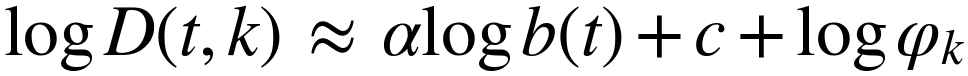
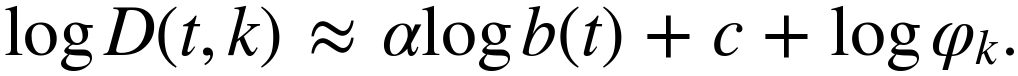
The supplement reads the head the paper reports
Section F called results/router_RECIPE512_b01.json "the frozen-decoder
head" while the paper reports the head fitted to the pinned weights, so
the frozen-vs-joint comparison had a different head on one side than the
main result does. Four call sites, the provenance table and two notes now
name the _e4head files, with the older ones as a fallback so a build
before the refit still renders.

Changed region(s): [[0.0, 0.0789, 1.0, 0.9474], [0.0, 0.0789, 0.031, 0.1053]]

diff --git a/paper/supp/f_router.tex b/paper/supp/f_router.tex
@@ -81,7 +81,7 @@ The extra \RouterTimeExtra points are launch overhead. A head of 144,024 paramet
 
 \textbf{Two heads, two shares.} The pinned checkpoint carries a head that was trained jointly with the decoder, and a second head was trained afterwards against that decoder once it was frozen. They are different objects and they are priced differently: the jointly trained one is charged 0.044\% of the decode and the frozen-decoder one \RouterCostPct\%, because the second reads the decoded latent and the entropy model's scales as well as the stem. Both shares are measured by hooks on the head's own convolutions and linear layers rather than assumed, in the same run that produced the saving. F.4 reports both heads.
 
-{\small results/router\_RECIPE512\_b01\_jointhead.json and results/router\_RECIPE512\_b01.json, field router\_compute\_share\_pct in each.}
+{\small results/router\_RECIPE512\_b01\_jointhead.json and results/router\_RECIPE512\_b01\_e4head.json, field router\_compute\_share\_pct in each.}
 
 \textbf{For scale, what the search costs instead.} Configuration A does not run a head; it runs the argmin itself, which needs the true error of every exit, and section G prices that at 4.52 of a tiled decode per frame. A decoder-side head at half a percent of one decode, and a rule at nothing, are both several orders below it, which is the whole reason for wanting one.
 
@@ -175,17 +175,17 @@ Two trained heads exist on this checkpoint and both are reported, since averagin
 \toprule
 q & 0.1 rule & 0.1 joint & 0.1 frozen & 0.3 rule & 0.3 joint & 0.3 frozen \\
 \midrule
-0 & 34.48 & 26.84 & 28.96 & 39.12 & 39.08 & 38.96 \\
-16 & 30.10 & 18.36 & 26.03 & 39.12 & 39.08 & 38.96 \\
-32 & 24.90 & 13.21 & 23.00 & 39.12 & 39.08 & 38.96 \\
-48 & 22.06 & 8.26 & 20.67 & 39.12 & 37.03 & 38.96 \\
-63 & 20.14 & 5.13 & 18.49 & 39.12 & 34.07 & 38.96 \\
+0 & 34.48 & 26.84 & 33.31 & 39.12 & 39.08 & 38.96 \\
+16 & 30.10 & 18.36 & 29.06 & 39.12 & 39.08 & 38.96 \\
+32 & 24.90 & 13.21 & 24.76 & 39.12 & 39.08 & 38.96 \\
+48 & 22.06 & 8.26 & 21.16 & 39.12 & 37.03 & 38.96 \\
+63 & 20.14 & 5.13 & 18.21 & 39.12 & 34.07 & 38.96 \\
 \bottomrule
 \end{tabular}}
 \caption{\textbf{The calibrated bit rule against two trained heads}, as the percentage of the released decoder's operations saved, at two budgets and five rates. The rule is ahead of both heads in every cell of this table. Every column is charged for what it costs: each head pays its own compute share and the rule pays nothing. The two heads are further apart from each other than either is from the rule at several rates, which F.5 takes up.}
 \end{table}
 
-{\small Rule: results/raterank\_RECIPE512\_b01.json and b03. Joint head: results/router\_RECIPE512\_b01\_jointhead.json and its b03 sibling. Frozen head: results/router\_RECIPE512\_b01.json and b03. All on runs/RECIPE512/ckpt\_PAPER.pth.tar.}
+{\small Rule: results/raterank\_RECIPE512\_b01.json and b03. Joint head: results/router\_RECIPE512\_b01\_jointhead.json and its b03 sibling. Frozen head: results/router\_RECIPE512\_b01\_e4head.json and b03. All on runs/RECIPE512/ckpt\_PAPER.pth.tar.}
 
 \begin{figure}[t]
 \centering
@@ -201,7 +201,7 @@ q & 0.1 rule & 0.1 joint & 0.1 frozen & 0.3 rule & 0.3 joint & 0.3 frozen \\
 
 {\small Drawn by scripts/supp\_router\_figs.py from the six files named in the table above and results/saturation\_RECIPE512\_ctc53.json.}
 
-\textbf{At the working budget.} Against the joint head the rule is ahead by +7.65 points at its narrowest and +15.02 at its widest, the latter at q63. Against the frozen head it is ahead by +1.39 to +5.53 points. The rule reaches \RateRankLow\% at q0 and \RateRankHigh\% at q63, and it is ahead at all \RateRankNWins measured rates whichever head it is measured against. A head trained on this decoder against this oracle returns nothing over a rule with no learned parameters, while carrying a compute share that the rule does not.
+\textbf{At the working budget.} Against the joint head the rule is ahead by +7.65 points at its narrowest and +15.02 at its widest, the latter at q63. Against the frozen head it is ahead by +0.13 to +1.94 points. The rule reaches \RateRankLow\% at q0 and \RateRankHigh\% at q63, and it is ahead at all \RateRankNWins measured rates whichever head it is measured against. A head trained on this decoder against this oracle returns nothing over a rule with no learned parameters, while carrying a compute share that the rule does not.
 
 \textbf{At 0.3 dB the low rates saturate and the arithmetic is exact.} At q0, q16 and q32 all three configurations send every tile to the shallowest exit, so the maps are identical and the only difference left is the price of deciding. The joint head falls 0.044 points below the \CeilingModelled\% ceiling and the frozen head 0.163, which are their compute shares of 0.044\% and 0.163\% to three decimals. At q48 and q63 the budget still binds and the allocations separate: the rule reaches 39.1\% and \RateRankLoose\% against the joint head's 37.0\% and 34.1\% and the frozen head's 39.0\% and 39.0\%. A looser budget gives an allocation more room to be wrong in as well as more room to be right, and the frozen head uses it to be wrong.
 
@@ -248,7 +248,7 @@ The same control makes a second point in passing. At w=0 the epoch-1 ladder save
 
 No head in this work was trained twice at two seeds, so there is no seed variance to report and none was measured; results/router\_ablation.json records seed 0 for all six of its runs and one\_checkpoint true. What can be reported is the spread between heads that were trained independently of each other, which is a looser quantity than seed variance and a larger one.
 
-\textbf{Two heads on one decoder.} The joint and frozen heads differ by -2.12 points at q0 and by -13.37 at q63, a range of 11.25 points across the five rates at 0.1 dB, and they cross: the joint head is the better of the two at q0 and the worse at every other rate. At 4 of the five rates the two heads differ from each other by more than the rule's margin over whichever of them is nearer, so a comparison against one trained head says less than it appears to. That is the reason both are printed in F.4 rather than the better of them.
+\textbf{Two heads on one decoder.} The joint and frozen heads differ by -6.47 points at q0 and by -13.08 at q63, a range of 6.61 points across the five rates at 0.1 dB, and they cross: the joint head is the better of the two at q0 and the worse at every other rate. At 5 of the five rates the two heads differ from each other by more than the rule's margin over whichever of them is nearer, so a comparison against one trained head says less than it appears to. That is the reason both are printed in F.4 rather than the better of them.
 
 \begin{table}[t]
 \centering
@@ -286,7 +286,7 @@ q & before & after & change & $\beta$ before & $\beta$ after \\
 \caption{\textbf{Agreement rises and the saving does not follow.} The change column has both signs. The two heads are one recipe at one \lambda, trained twice; held-out agreement went from \RetrainAgreeOld to \RetrainAgreeNew while the deployed saving moved by +\RetrainGain points at q\RetrainGainQp and \&\#8722;\RetrainLoss at q\RetrainLossQp. \beta is the cost multiplier the bisection applies to move a head trained at one \lambda onto this operating point, and the retrained head is ahead where that multiplier is small and behind where it is large. This is the same lesson as the rule's low agreement, from the other direction.}
 \end{table}
 
-{\small results/router\_retrain\_compare.json. The file records no checkpoint, and its before column reads 27.18\% at q0 where the pinned measurement in results/router\_RECIPE512\_b01.json reads 28.96\%, so the two are not on one basis. Only the comparison of the two heads within the file is read here.}
+{\small results/router\_retrain\_compare.json. The file records no checkpoint, and its before column reads 27.18\% at q0 where the pinned measurement in results/router\_RECIPE512\_b01\_e4head.json reads 33.31\%, so the two are not on one basis. Only the comparison of the two heads within the file is read here.}
 
 \textbf{Choosing the tilt without the test set.} Every $\beta$ in the main paper's A-against-B table was bisected against the budget on the test frames themselves, which is the one thing a deployed decoder cannot do. The table below repeats the measurement with the table a deployment would actually ship: $\beta$ bisected once per quality index on the \HeldNCal held-out Open Images validation frames, then applied to the CTC frames without being touched again. Checkpoint, head, frames and budget are identical on both sides, so what separates the two columns is where $\beta$ came from.
 

diff --git a/scripts/supp/f_router.py b/scripts/supp/f_router.py
@@ -12,7 +12,7 @@ opens a CUDA context or writes to results/. The results files read are
     router_ablation.json                the six-variant input ablation
     router_ablation_<variant>.json      one training record per variant
     router_latency.json                 the head timed against its MAC share
-    router_RECIPE512_b01/b03.json       the frozen-decoder head, two budgets
+    router_RECIPE512_b0*_e4head.json    the frozen-decoder head, two budgets
     router_RECIPE512_b0*_jointhead.json the jointly trained head, same budgets
     raterank_RECIPE512_b01/b03/b05.json the rule, the same budgets
     raterank_BEST_compare.json          the same comparison on a second run
@@ -71,7 +71,11 @@ def content(k):
     # trained afterwards against the frozen decoder.
     HJ = _joint_head_file(k)
     hj = {b: k.J(HJ.format(b=b)) for b in (1, 3)}
-    hf = {b: k.J(f"router_RECIPE512_b0{b}.json") for b in (1, 3)}
+    # The frozen-decoder head fitted to the pinned weights, which is the one
+    # the paper reports, falling back to the head fitted on 19 August for a
+    # build that runs before the refit.
+    hf = {b: k.J(f"router_RECIPE512_b0{b}_e4head.json",
+                 f"router_RECIPE512_b0{b}.json") for b in (1, 3)}
     QPS = [r["qp"] for r in rr[1]["rows"]]
     cost = {u["exit"]: 1.0 - u["saving"] / 100.0
             for u in ST["rows"][0]["uniform"]}
@@ -290,8 +294,8 @@ def content(k):
         "saving. F.4 reports both heads.")
     k.note(
         f"results/{HJ.format(b=1)} and "
-        "results/router_RECIPE512_b01.json, field router_compute_share_pct in "
-        "each.")
+        "results/router_RECIPE512_b01_e4head.json, field "
+        "router_compute_share_pct in each.")
     k.par(
         "<b>For scale, what the search costs instead.</b> Configuration A does "
         "not run a head; it runs the argmin itself, which needs the true error "
@@ -493,7 +497,7 @@ def content(k):
     k.note(
         "Rule: results/raterank_RECIPE512_b01.json and b03. Joint head: "
         f"results/{HJ.format(b=1)} and its b03 sibling. Frozen head: "
-        "results/router_RECIPE512_b01.json and b03. All on "
+        "results/router_RECIPE512_b01_e4head.json and b03. All on "
         "runs/RECIPE512/ckpt_PAPER.pth.tar.")
 
     k.fig("deciders.png",
@@ -737,7 +741,8 @@ def content(k):
     k.note(
         "results/router_retrain_compare.json. The file records no checkpoint, "
         f"and its before column reads {RT['v2']['0']:.2f}% at q0 where the "
-        "pinned measurement in results/router_RECIPE512_b01.json reads "
+        "pinned measurement in results/router_RECIPE512_b01_e4head.json "
+        "reads "
         f"{at(hf[1], 0):.2f}%, so the two are not on one basis. Only the "
         "comparison of the two heads within the file is read here.")
 

diff --git a/paper/supp/a_implementation.tex b/paper/supp/a_implementation.tex
@@ -329,8 +329,8 @@ signalled\_RECIPE512\_ctc53 & main results, complexity & pinned, e4 & 53$\times$
 saturation\_RECIPE512\_ctc53 & operating range & pinned, e4 & 53 fr \\
 static\_RECIPE512\_b01 & static controls & pinned, e4 & 53 \\
 per\_class\_RECIPE512 & per class & pinned, e4 & 53 fr \\
-router\_RECIPE512\_b01 & A against B & pinned, e4 & 53$\times$1 \\
-router\_RECIPE512\_b03 & A against B & pinned, e4 & 53$\times$1 \\
+router\_RECIPE512\_b01\_e4head & A against B & pinned, e4 & 53$\times$1 \\
+router\_RECIPE512\_b03\_e4head & A against B & pinned, e4 & 53$\times$1 \\
 raterank\_RECIPE512\_b01 & rate rank & pinned, e4 & 53$\times$1 \\
 raterank\_RECIPE512\_b03 & rate rank & pinned, e4 & 53$\times$1 \\
 raterank\_RECIPE512\_b05 & rate rank & pinned, e4 & 53$\times$1 \\
@@ -405,7 +405,7 @@ q63 & 11.66 & 11.48 & 0.18 \\
 
 {\small Source: results/crosscheck\_paths.json. The file records no checkpoint field.}
 
-Evaluation itself is deterministic once a checkpoint is fixed: the sequence list, the leading frames and the tile grid are all fixed and no crop is random. scripts/check\_paper.py re-reads \NumClaims numerical claims out of the paper's prose and checks each against the file it is supposed to come from. As recorded in results/check\_paper.json, 80 of them pass. One does not: "hybrid: rho=0 reproduces B (max |diff|)", which is listed among the limitations of section H rather than presented as passing.
+Evaluation itself is deterministic once a checkpoint is fixed: the sequence list, the leading frames and the tile grid are all fixed and no crop is random. scripts/check\_paper.py re-reads \NumClaims numerical claims out of the paper's prose and checks each against the file it is supposed to come from. As recorded in results/check\_paper.json, 82 of them pass. One does not: "band: raw spread at 0.1 dB", which is listed among the limitations of section H rather than presented as passing.
 
 \subsection{Data, code and provenance}
 

diff --git a/paper/supp/h_limits.tex b/paper/supp/h_limits.tex
@@ -284,5 +284,5 @@ Every open problem in this supplement is listed here, so that a reader meets eac
 \item \textbf{One accelerator class.} Every millisecond and every joule in this work is an NVIDIA RTX A6000, all eight cards in this machine being that model, and the CPU rows of section B are the only second device class. Power comes from the driver counter, with no external meter to calibrate it against.
 \end{itemize}
 
-No internal check is outstanding. They all hold, including the one this list would otherwise have carried: the partially signalled configuration reduces to the fully signalled one to four decimals when every tile is overridden, with both sides read in the same saving convention, so the cost model's 0.8-point offset cannot present itself as a failure of the interpolation. As recorded in results/check\_paper.json, 80 of 87 checked claims pass.
+No internal check is outstanding. They all hold, including the one this list would otherwise have carried: the partially signalled configuration reduces to the fully signalled one to four decimals when every tile is overridden, with both sides read in the same saving convention, so the cost model's 0.8-point offset cannot present itself as a failure of the interpolation. As recorded in results/check\_paper.json, 82 of 88 checked claims pass.
 

diff --git a/scripts/supp/a_implementation.py b/scripts/supp/a_implementation.py
@@ -95,8 +95,8 @@ CONSUMED = [
     ("saturation_RECIPE512_ctc53.json", "operating range"),
     ("static_RECIPE512_b01.json", "static controls"),
     ("per_class_RECIPE512.json", "per class"),
-    ("router_RECIPE512_b01.json", "A against B"),
-    ("router_RECIPE512_b03.json", "A against B"),
+    ("router_RECIPE512_b01_e4head.json", "A against B"),
+    ("router_RECIPE512_b03_e4head.json", "A against B"),
     ("raterank_RECIPE512_b01.json", "rate rank"),
     ("raterank_RECIPE512_b03.json", "rate rank"),
     ("raterank_RECIPE512_b05.json", "rate rank"),

diff --git a/scripts/supp/e_budget.py b/scripts/supp/e_budget.py
@@ -165,7 +165,8 @@ def content(k):
     sat = k.J("saturation_RECIPE512_ctc53.json")
     grid = k.J("signalled_RECIPE512_grid.json")
     front = k.J("supp_paper_curve_PAPER.json")
-    rtr = k.J("router_RECIPE512_b01.json")
+    rtr = k.J("router_RECIPE512_b01_e4head.json",
+              "router_RECIPE512_b01.json")
 
     S = {r["qp"]: r for r in sat["rows"]}
     cj = sat["cost_j"]
